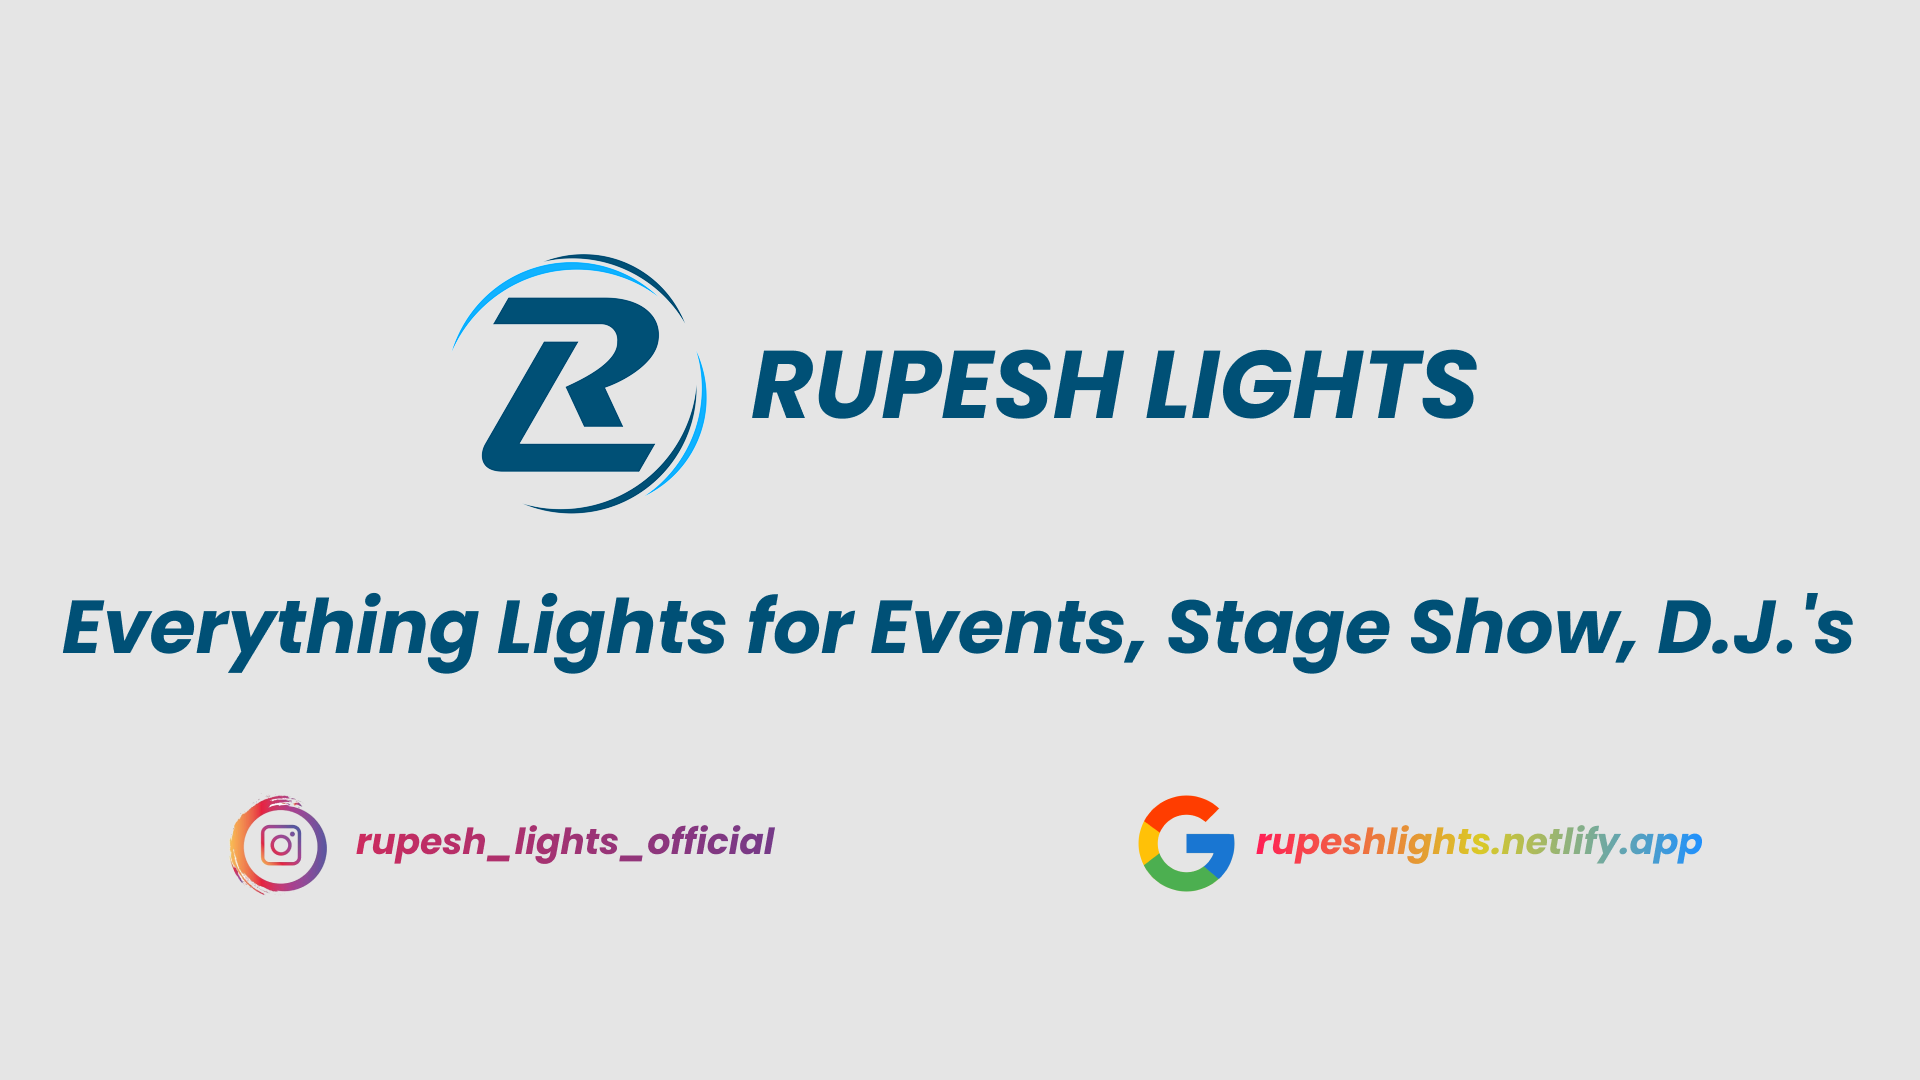
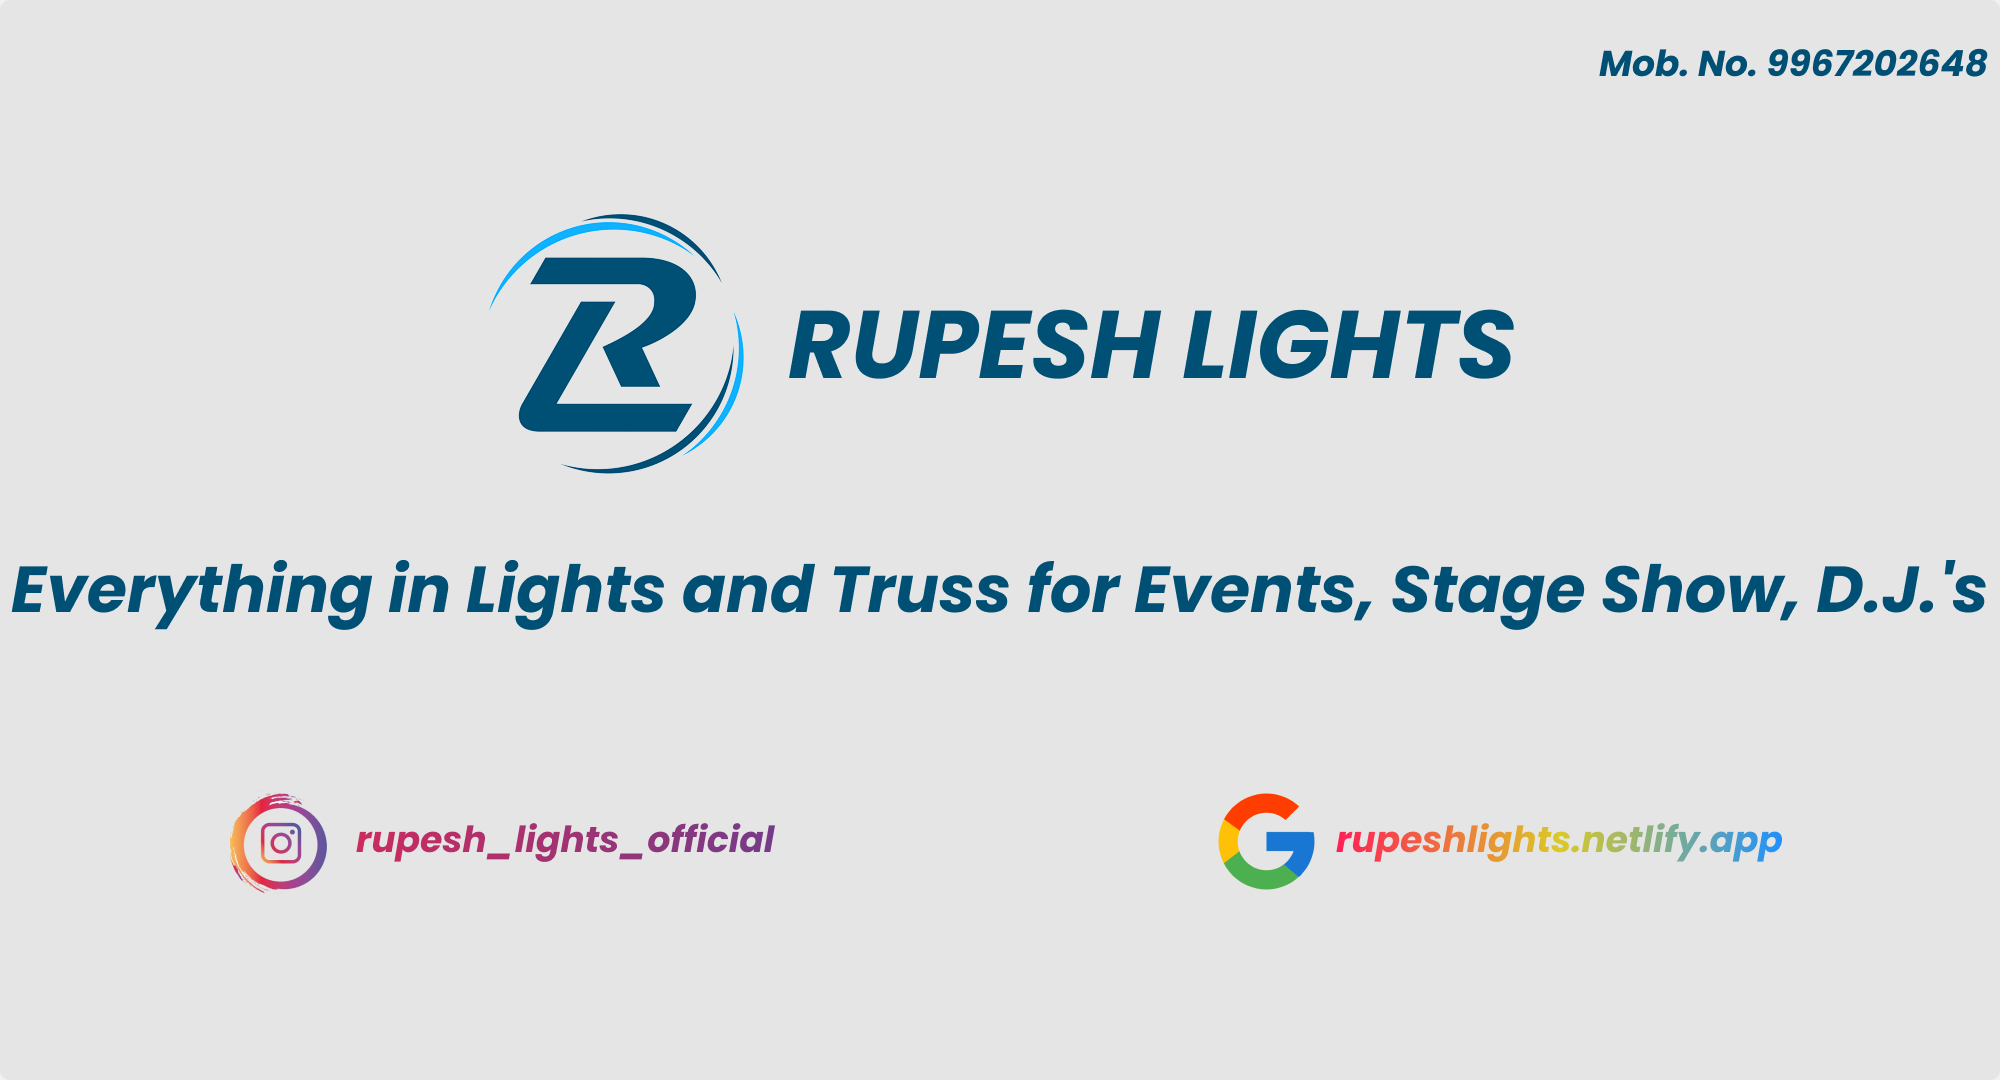
:memo: Adding Meta Tags
Adding Meta tags

diff --git a/index.html b/index.html
@@ -7,27 +7,26 @@
     <meta http-equiv="X-UA-Compatible" content="IE=edge" />
     <!-- META VIEWPORT -->
     <meta name="viewport" content="width=device-width, initial-scale=1.0" />
-    <!-- META DESCRIPTION -->
-    <meta
-      name="description"
-      content="Everything Lights for Events, Stage Show, Drama, D.J.’s & Music Arrange"
-    />
     <!-- META KEYWORDS -->
     <meta name="keywords" content="Rupesh Lights & Truss, Rupesh Lights, Lights, Events, Truss, Lights and Events">
     <!-- META THEME COLOR -->
     <meta name="theme-color" content="#036999" />
-    <!-- TITLE -->
+    <!-- Primary Meta Tags -->
     <title>Rupesh Lights & Truss</title>
-    <!-- META OG TAGS -->
-    <meta property="og:image" content="https://rupeshlights.netlify.app/res/img/logo.png" />
-    <meta property="og:image:type" content="image/png" />
-    <meta property="og:title" content="Rupesh Lights & Truss" />
-    <meta
-      property="og:description"
-      content="Everything Lights for Events, Stage Show, Drama, D.J.’s & Music Arrange"
-    />
-    <meta property="og:type" content="website" />
-    <meta property="og:url" content="http://rueshlights.netlify.app" />
+    <meta name="title" content="Rupesh Lights & Truss">
+    <meta name="description" content="Everything in Lights and Truss for Events, Stage Show, D.J.'s">
+    <!-- Open Graph / Facebook -->
+    <meta property="og:type" content="website">
+    <meta property="og:url" content="https://rupeshlights.netlify.app/">
+    <meta property="og:title" content="Rupesh Lights & Truss">
+    <meta property="og:description" content="Everything in Lights and Truss for Events, Stage Show, D.J.’s">
+    <meta property="og:image" content="https://www.linkpicture.com/q/RL_Poster.png">
+    <!-- Twitter -->
+    <meta property="twitter:card" content="summary_large_image">
+    <meta property="twitter:url" content="https://rupeshlights.netlify.app/">
+    <meta property="twitter:title" content="Rupesh Lights & Truss">
+    <meta property="twitter:description" content="Everything in Lights and Truss for Events, Stage Show, D.J.’s">
+    <meta property="twitter:image" content="https://www.linkpicture.com/q/RL_Poster.png">
     <!-- Google Search Console -->
     <meta name="google-site-verification" content="HYSsYH53vWQkWn3MxEOsJ_uvX7RwQXJCncM9zbhuyP4" />
     <!-- STYLESHEET -->
@@ -118,8 +117,7 @@
         <header class="block__header hero_content">
           <h1 data-aos="zoom-in-up" class="block__heading">Rupesh Lights & Truss</h1>
           <p class="hero__tagline">
-            Everything Lights for Events, Stage Show, Drama, D.J.’s & Music
-            Arrange
+            Everything in Lights and Truss for Events, Stage Show, D.J.’s
           </p>
         </header>
         <img data-aos="zoom-in" class="hero__image" src="res/img/logo.png" alt="" />
